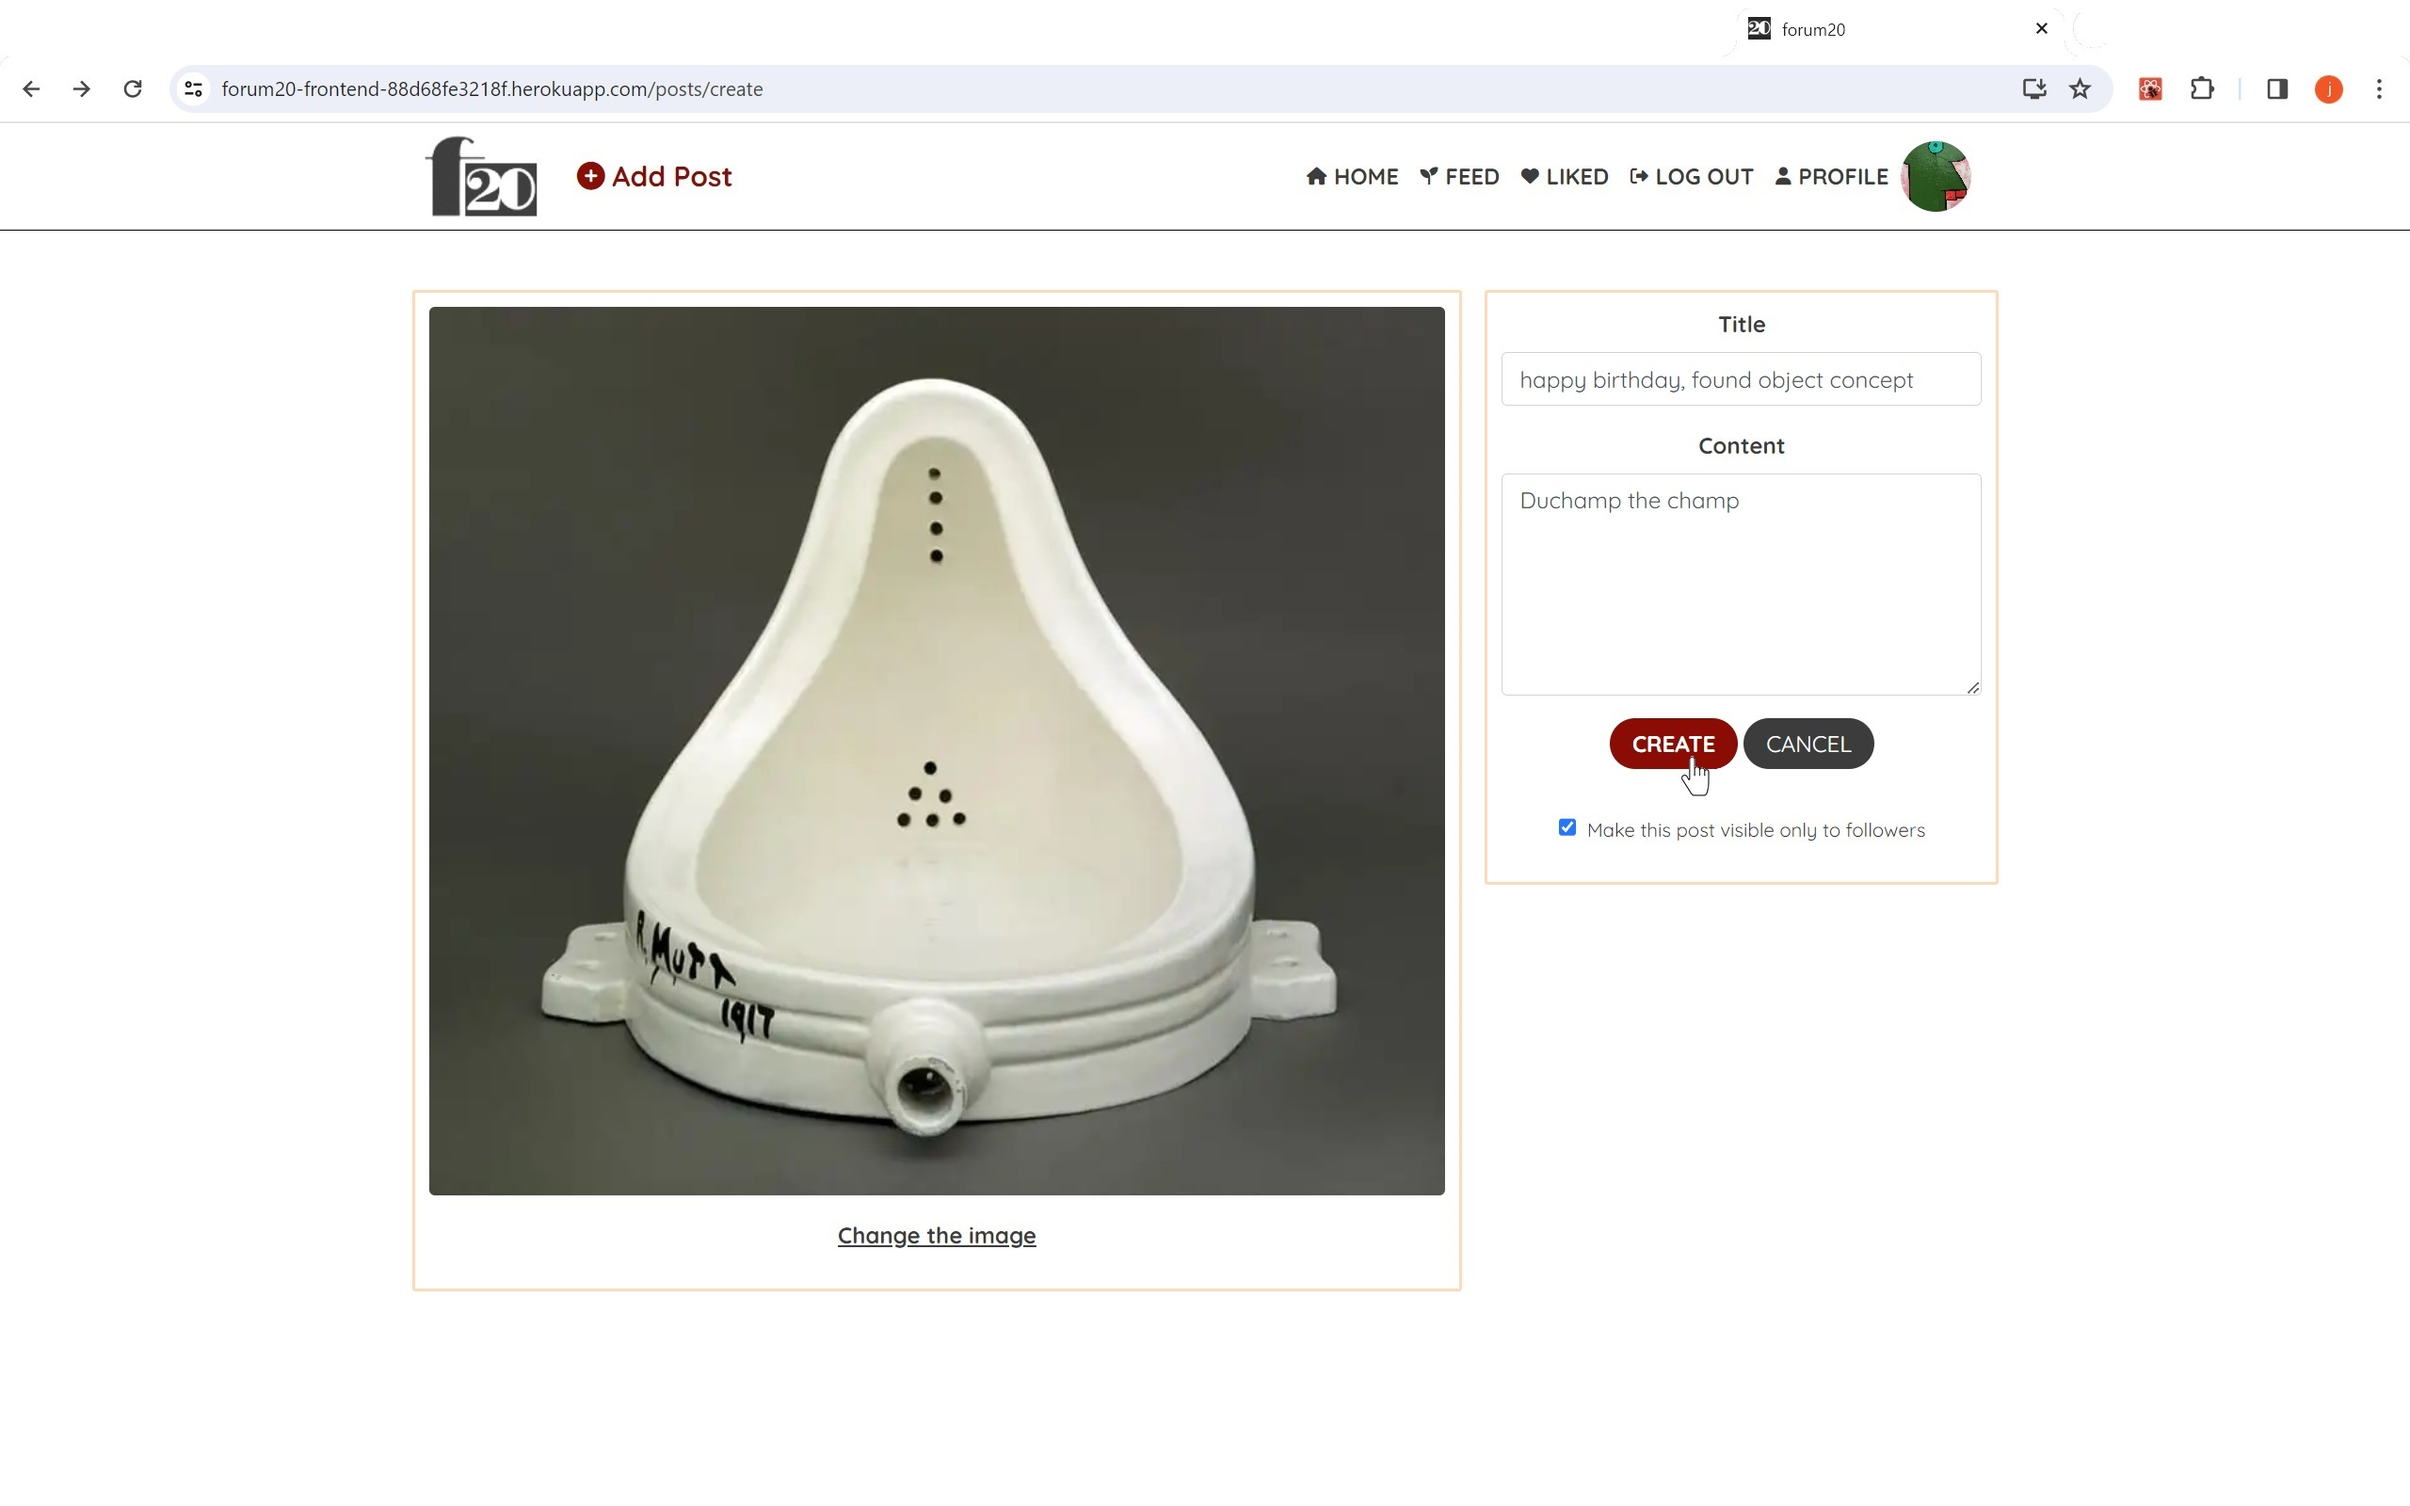
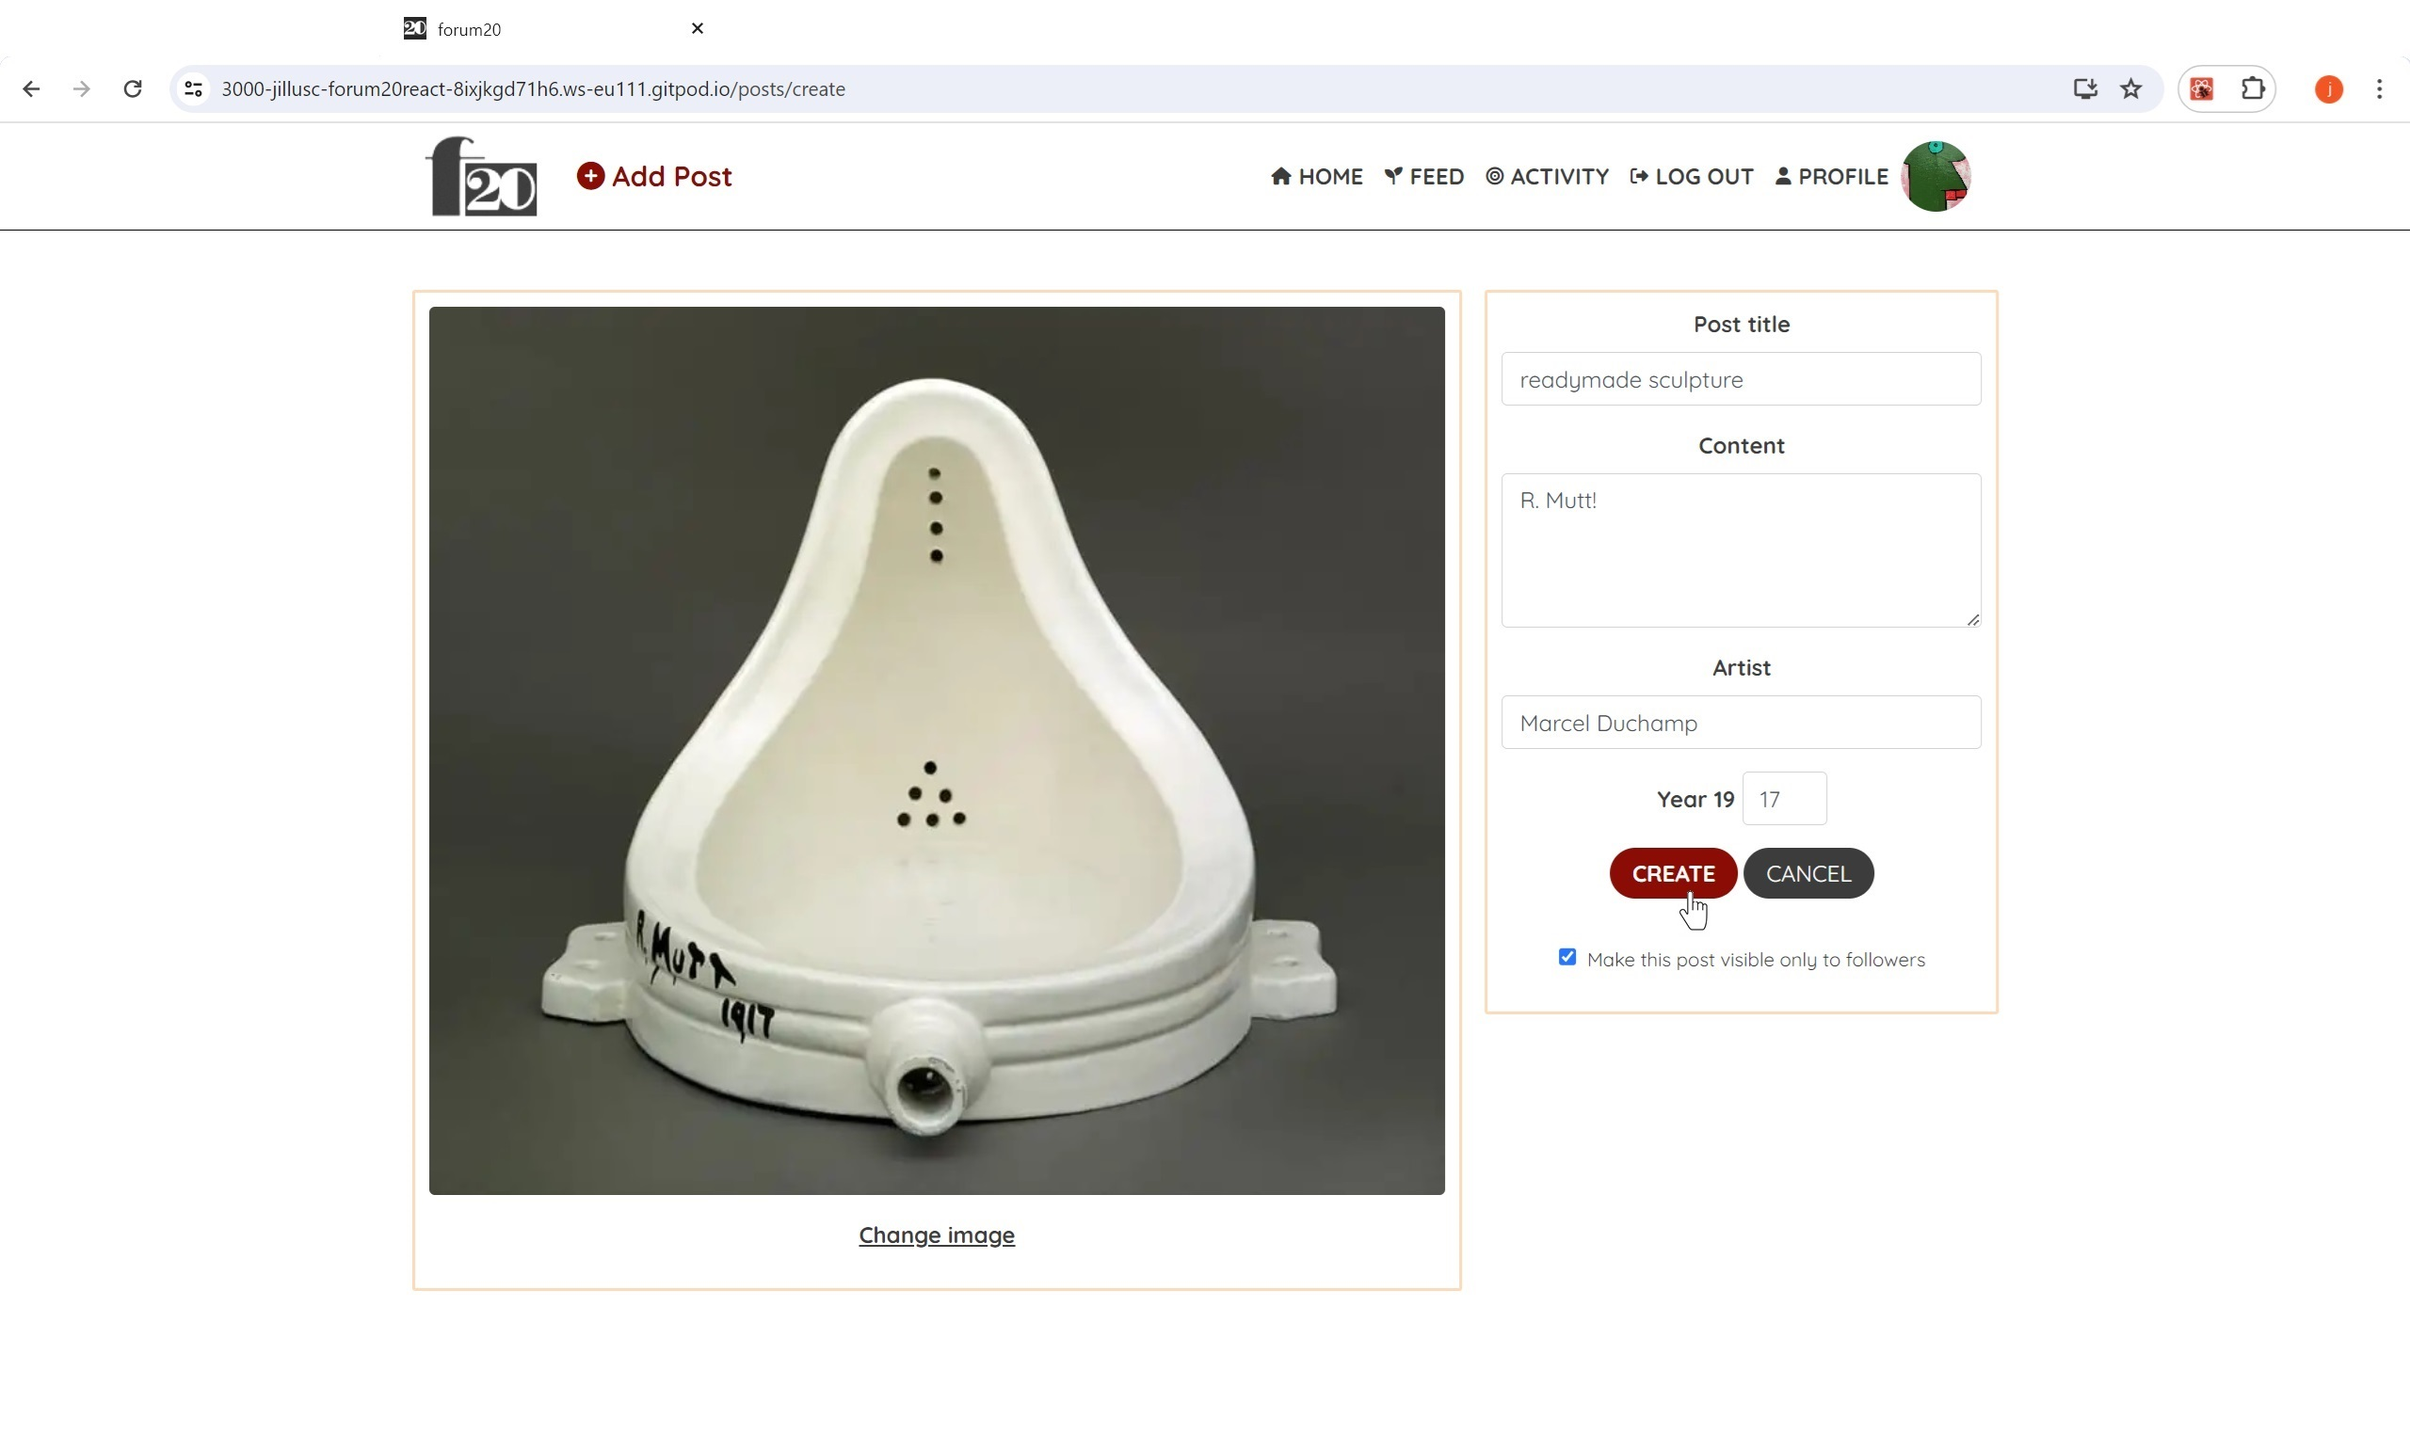
Updated README with text on React and all content relating to new bookmark model and extended post model, plus relevant ssupporting images.

diff --git a/README.md b/README.md
@@ -217,13 +217,15 @@ From the logo, a favicon was created using basic image editing software. The num
 
 ## Data Models
 
-This project follows Object-Oriented Programming principles and employs Django's Class-Based Generic Views. It includes five custom models:
+This project follows Object-Oriented Programming principles and employs Django's Class-Based Generic Views. It includes six custom models:
 
-- Post: detailing user posts with attributes such as owner (linked to the User model), post privacy status, timestamps of creation and updates, a post title and content text and an image.
-- Profile: for user profiles and directly associated with a unique User instance.
-- Comment: enabling registered users to submit comments, this establishes one-to-many relationships with both the User model (via comment owner) and the Post model (linking a comment with a post).
-- Like: featuring a many-to-one relationship with both the User model (via like owner) and the Post model (identifying which post was liked).
-- Follower: representing the relationships between users, with a many-to-one relationship to the User model twice: once for the user who's following and once for the followed user.
+- Post: details user posts with attributes such as owner (linked to the User model), post privacy status, timestamps of creation and updates, a post title and content text, an image, plus further optional fields for the artist's name and the year of the artwork.
+- Profile: represents user profiles and is directly associated with a unique User instance. It includes attributes for the username, bio and a profile image that serves as an avatar.
+- Like: features many-to-one relationships with both the User model (via like owner) and the Post model (identifying which post was liked).
+- Comment: enables registered users to submit comments, establishing one-to-many relationships with both the User model (via comment owner) and the Post model (linking a comment with a post).
+- Bookmark: allows users to save posts for later viewing, featuring many-to-one relationships with both the User model (via bookmark owner) and Post model (associating a bookmark with a post).
+- Follower: trackes relationships between users with a many-to-one relationship to the User model twice: once for the user who is following and once for the followed user.
+
 
 The database schema are illustrated by the ERD diagram below:<br><br>
 <img src="README%20images/ERD.jpg">
@@ -232,18 +234,18 @@ The database schema are illustrated by the ERD diagram below:<br><br>
 
 This is an application where visitors can explore 20th century artworks and enrich their knowledge of this vast, diverse and culturally significant era. Members can view contributions from others and create their own posts, sharing their favourite images and showcasing their favourite artists. An option to control post visibility is offered. A search bar enables the fetching of customised content. Additionally, users can engage with the forum20 community by submitting comments on posts and starting or joining a conversation. Further features that enhance social interaction are the ability to easily 'like' a post, and to connect with other members by clicking a 'follow' button. Members' profile pages contain pertinent information including an optional bio.
 
- - User Registration and Authentication: users can sign up, log in and out, and manage their profiles securely.
+ - User Registration and Authentication: users can sign up, log in and out and manage their profiles securely.
  - CRUD Functionality: registered users have the freedom to create, read, update and delete all of their individual contributions to the platform.
  - User Profiles: each registered user has a Profile page displaying their name, avatar, bio section and their submitted posts.
  - Admin Panel: through the Django admin panel, admin personnel have control to manage user accounts and site content.
  - JSON Web Tokens: JWT's are utilised to maintain user sessions securely, allowing users to remain logged in until they choose to log out.
  
  - React architecture: UX is enhanced by use of the following features of React:
-    - Components: React's modular approach enables faster development and consistency
+    - Components: React's modular approach enables faster development and ensures consistency across the interface
     - Rendering: the Virtual DOM ensures quick updates, leading to smoother interactions
     - State Management: React's built-in state management tools keep UIs up-to-date with minimal code
     - Routing: React Router enables seamless navigation without page reloads, offering users a structured and intuitive browsing experience
-    - Infinite Scroll: implemented for effortless browsing, loading content dynamically without navigating to a different page.
+    - Infinite Scroll: implemented for effortless browsing, loading content dynamically without the need to navigate to a different page.
 
 ### Features to implement
 
@@ -279,21 +281,27 @@ Tailored content is displayed to the registered user through this page. The Feed
 
 ### Activity page
 
-The Activity page aggregates all the comments that the authenticated user has submitted. This provides a convenient way for the user to revisit and review these interactions, with the options to revisit the relevant post page as well as edit and delete the comments:<br><br>
-<img src="README%20images/page-activity.jpg">
+The Activity page aggregates all the comments that the authenticated user has submitted and the posts they have bookmarked. A simple organisation of the content utilising tabs offers a convenient way for the user to review these interactions, with the options to revisit the relevant post page as well as edit and delete the comments. For cohesion and consistency of design, the tab headers match the appearance of the navbar links:<br><br>
+<img src="README%20images/page-activity1.jpg"><br><br>
+<img src="README%20images/page-activity2.jpg">
 
 ### Add Post page
 
-Clicking on the Add Post navlink opens a page with a form. This features a larger box via which to upload an image and a narrower one where the user can enter a title for the post and further text content. A checkbox affords the user some control by enabling setting the post as visible only to their followers. Upon successful creation, a custom feedback message displays before the Post page is rendered to display the submitted post:<br><br>
+Clicking on the Add Post navlink opens a page with a form. This features a larger box via which to upload an image and a narrower one where the user enters the post's details. A title is mandatory; there are further input fields for additional text content, the name of the artist and year of the artwork. A checkbox affords the user the control to set the post as visible only to their followers. Upon successful creation, a custom feedback message displays before the Post page is rendered to display the submitted post:<br><br>
 <img src="README%20images/page-addpost1.jpg"><br><br>
 <img src="README%20images/page-addpost2.jpg">
 
-### My Profile page
+### Profile page
 
 This page offers users a personalised space to manage their account and their sitewide identity: they can easily update their profile image, username and bio; change their password, and view, edit and delete their submitted posts:<br><br>
 <img src="README%20images/page-profile1.jpg"><br><br>
 <img src="README%20images/page-profile2.jpg"><br><br>
-<img src="README%20images/page-profile3.jpg">
+<img src="README%20images/page-profile3.jpg"><br><br>
+<img src="README%20images/page-profile4.jpg"><br><br>
+<img src="README%20images/page-editprofile.jpg"><br><br>
+<img src="README%20images/page-changeusername.jpg"><br><br>
+<img src="README%20images/page-changepassword.jpg">
+
 
 ### Miscellaneous
 
@@ -345,7 +353,7 @@ iii) In the Resources tab, select an Eco dyno for lightweight container deployme
 iv) Click the Open app button to verify it runs correctly.<br>
 
 #### Backend:
-Assuming a created database (e.g. ElephantSQL), a ready repository and an Heroku account, the following steps outline the backend deployment process:
+Assuming a created database (e.g. ElephantSQL), a ready repository and an Heroku account, the following steps outline the preparation of the backend for deployment and the deployment process:
 
 i) Visit the Heroku dashboard and create a new app with a unique name.<br>
 ii) From the Settings tab, add a Config Var for DATABASE_URL, and copy/paste your database's URL for the value (without any quotation marks).<br>
@@ -402,14 +410,12 @@ xvi) Click the Open app button to verify it runs correctly. <br>
 
 ## Improvements/Bug fixes
 
-The app is not yet presented in a completed or optimal state and would benefit from the following modifications and enhancements:
+The app would benefit from the following modifications and enhancements:
 
-   - Addressing the tests that failed to pass, particularly around functionality of post editing. See <u>[documentation](README%20images/forum20%20testing.pdf)</u>.
-   - A feature for retrieving a forgotten password
-   - An option for the user to delete their account
    - Ensuring application of the active class (NavLink style) upon all page reloads
    - Improving the visibilty of Follow/Unfollow buttons in the 'Most followed profiles' box so users can see at a glance which profiles they currently follow
-   - Expanding the Activity page to include the display of, for example, the logged-in user's likes and follows
+   - An option for the user to delete their account
+   - A feature for retrieving a forgotten password
    - The logo could be remade to render more sharply.
 
 ## Credits
